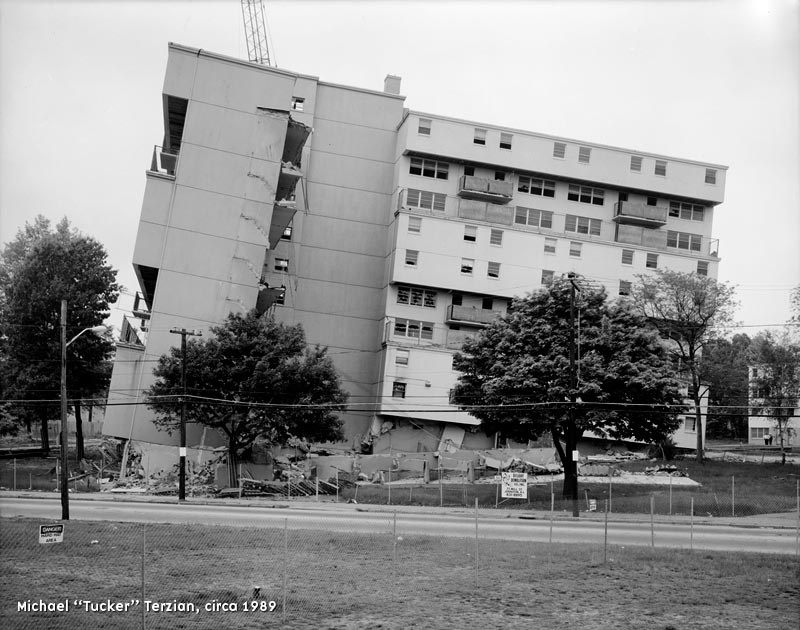
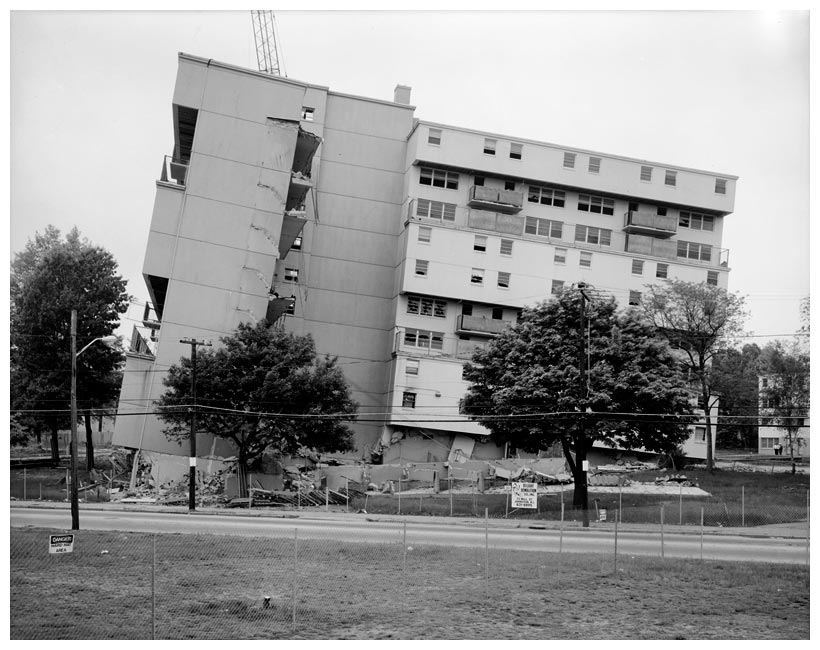
Property updates, new photos
Some are just to satisfy the requirement for thumbnails that are larger than 800px wide

diff --git a/_property/american-screw-co.md b/_property/american-screw-co.md
@@ -2,7 +2,7 @@
 title: "American Screw Company"
 slug: american-screw-co
 aka: 'Eagle Mill, Eagle Screw Company, Bay State Mill'
-date-modified: 2020-08-04 12:00
+date-modified: 2020-09-11 16:00
 
 built: '1840–1873'
 demolition: '1971'
@@ -32,6 +32,12 @@ thumbnail: amerscrew-habs-1970-01.jpg
 images:
   - url: amerscrew-litho-1886.jpg
     caption: 'Lithograph reproduction of American Screw Complex, including Eagle Mill, circa 1886'
+  - url: Letterhead-from-Ebay-1883.png
+    caption: 'Company letterhead from 1883'
+  - url: John-Gannon-via-Facebook.jpg
+    caption: 'Cover of a large box of assorted screws from John Gannon'
+  - url: 'amerscrew-ppl-1965c-01.jpg'
+    caption: 'Newspaper clipping from the John Hutchins Cady Research Scrapbooks Collection at Providence Public Library, circa 1965. Notice the “American Screw Company” sign, which is why we date the photo pre-1970 — signage is not present in the Library of Congress photos'
   - url: amerscrew-habs-1970-01.jpg
     caption: 'Complex looking east, Bay State building on left. Building 1 in middle, roof line and tower of building 2 visible to right, building 2 boiler house on extreme right. “Canal House” commercial/residential building (not part of American Screw complex) in foreground at 125-127 Charles Street alongside “Hope Cycle and Auto Supply” at 137 Charles Street.'
   - url: amerscrew-habs-1970-02.jpg
@@ -39,7 +45,7 @@ images:
   - url: amerscrew-habs-1970-03.jpg
     caption: 'Bay State Mill, built 1873, Stevens Street.'
   - url: amerscrew-habs-1970-04.jpg
-    caption: 'Building 6, 1850, on left (21 Stevens), with Building 1, 1840, (Admiral Radios/Televisions/Refrigerators) on right at the corner of Hewes and Stevens Streets.'
+    caption: 'Building 6, 1850, on left (21 Stevens), with Building 1, 1840, (Admiral Radios/Televisions/Refrigerators) on right at the corner of Hewes and Stevens Streets. Notice that bell tower top is gone from Building 1 as compared to the photo circa 1965'
   - url: amerscrew-habs-1970-05.jpg
     caption: 'South east corners of building 1 (foreground) and Bay State building (background).'
   - url: amerscrew-habs-1970-06.jpg
@@ -64,18 +70,14 @@ images:
     caption: 'East end of southern addition to Building 1, 3rd floor.'
   - url: amerscrew-habs-1970-16.jpg
     caption: 'Framing below skylights in building 6.'
-  - url: Letterhead-from-Ebay-1883.png
-    caption: 'Company letterhead from 1883'
-  - url: John-Gannon-via-Facebook.jpg
-    caption: 'Cover of a large box of assorted screws from John Gannon'
+  - url: amerscrew-rendering-1972.jpg
+    caption: 'Architectural renovation rendering by Karen Noel. View is to the south at the intersection of Stevens and Charles streets.'
   - url: amerscrew-aerial-1899-1997.jpg
     caption: 'Providence Historic Aerial Viewer 1997 with a 1899 Sanborn Map overlay'
   - url: amerscrew-aerial-1937-1997.jpg
     caption: 'Providence Historic Aerial Viewer 1997 with a 1937 Sanborn Map overlay'
   - url: amerscrew-aerial-1970-1997.jpg
     caption: 'Providence Historic Aerial Viewer 1997 with a 1970 schematic of the complex from the National Register nomination'
-  - url: amerscrew-rendering-1972.jpg
-    caption: 'Architectural renovation rendering by Karen Noel. View is to the south at the intersection of Stevens and Charles streets.'
 
 imagescredit: 'All images from the National Register nomination forms, photos by Laurence Tilley. Architectural drawing by Karen Noel.'
 ---

diff --git a/_property/central-fire-stations.md b/_property/central-fire-stations.md
@@ -2,7 +2,7 @@
 title: "Central Fire Stations, Providence"
 slug: central-fire-stations
 aka: 
-date-modified: 2020-08-30 12:00
+date-modified: 2020-09-11 15:15
 
 built: '1873 and 1903'
 demolition: '1938'
@@ -38,6 +38,8 @@ images:
   - url: central-fire-1902c-profile.jpg
   - url: central-fire-1903c-views-of-prov.jpg
     caption: 'Detail from a page out of “Views of Providence,” circa 1903'
+  - url: central-fire-1906c-postcard.jpg
+    caption: 'Rare photo from a postcard without the Federal Court in place (built 1906-1908)'
   - url: central-fire-1908c-with-union.jpg
   - url: central-fire-1910c-and-court-house.jpg
     caption: 'John Hutchins Cady Research Scrapbooks Collection, Providence Public Library, circa 1910'
@@ -45,6 +47,8 @@ images:
     caption: 'John Hutchins Cady Research Scrapbooks Collection, Providence Public Library, circa 1910'
   - url: central-fire-1910c-lib-congress.jpg
     caption: 'Detail from a photo of Exchange Place, Library of Congress, circa 1910'
+  - url: central-fire-1918c-hospital-trust.jpg
+    caption: 'Postcard view circa 1918 with the Hospital Trust new tower in the background (pale yellow)'
   - url: central-fire-1924c-demonstration.jpg
     caption: 'Providence Journal file photo, circa 1924'
 

diff --git a/_property/narragansett-brewery-cranston.md b/_property/narragansett-brewery-cranston.md
@@ -8,7 +8,7 @@ built: 1890
 demolition: 1998
 decade: '1890-1899'
 date-added: 2002
-categories: [ '#UsedToBeThere' ]
+categories: [ '#ArchiveRI', '#UsedToBeThere' ]
 neighborhoods: []
 town: [ 'Cranston, RI' ]
 designers: [ 'Designer Unknown' ]
@@ -23,10 +23,11 @@ gmap: "https://www.google.com/maps/place/5+Garfield+Ave,+Cranston,+RI+02920/@41.
 meta: ""
 excerpt: "Abandoned and derelict for 17 years, the former brewery complex that once employed 850 people was razed in 1998. The brand has lived on and has since reclaimed its Rhode Island heritage."
 
-thumbnail: narrbrew-cranston-tod-1999-01.jpg
+thumbnail: narrbrew-cranston-thumb.jpg
 
 images:
   - url: narrbrew-cranston-old-1920s.jpg
+  - url: narrbrew-cranston-pin-1910c.jpg
   - url: narrbrew-cranston-aerial-1997.jpg
     caption: Aerial from the Providence Historical Aerial Viewer
   - url: narrbrew-cranston-b-1999-01.jpg

diff --git a/_property/crescent-park.md b/_property/crescent-park.md
@@ -2,7 +2,7 @@
 title: "Crescent Park"
 slug: 'crescent-park'
 aka: 
-date-modified: 2020-08-16 11:00
+date-modified: 2020-09-11 14:52
 
 built: '1886'
 demolition: '1979'
@@ -40,6 +40,8 @@ images:
     caption: 'Crescent Park Studio on the left with Toboggan Races advertised on the right, circa 1900.'
   - url: crescent-park-looff-family-1905.jpg
     caption: 'The Looff family pose in front of the Crescent Park carousel, 1905.'
+  - url: crescent-park-boy-in-boat-c1910.jpg
+    caption: 'A boy poses in the Crescent Park boat painting, 1910.'
   - url: crescent-park-chutes-c1910.jpg
     caption: 'A postcard photograph of the “Shooting the Chutes” ride, only 5¢ roundtrip, circa 1910. '
   - url: crescent-park-bandstand-c1910.jpg

diff --git a/_property/zams.md b/_property/zams.md
@@ -8,7 +8,7 @@ built: 1940?
 demolition: 1985
 decade: '1940-1949'
 date-added: 2003
-categories: [ '#UsedToBeThere' ]
+categories: [ '#ArchiveRI', '#UsedToBeThere' ]
 neighborhoods: [ 'South Providence' ]
 town: [ 'Providence, RI' ]
 designers: [ 'Designer Unknown' ]
@@ -26,7 +26,7 @@ gmap: "https://www.google.com/maps/place/734+Eddy+St,+Providence,+RI+02903/@41.8
 meta: ""
 excerpt: "A sweet and spare little gas and service station formerly on Eddy Street. Love the painted transom sign."
 
-thumbnail: 
+thumbnail: zams-g-thumb.jpg
 
 images:
   - url: zams-g-1985-01.jpg

diff --git a/_property/blue-coal.md b/_property/blue-coal.md
@@ -24,7 +24,7 @@ meta: "Built circa 1915. Photographs starting May 2002. Demolished Sept 2002. Fo
 
 excerpt: "Built circa 1915, these concrete coal storage towers were demolished in late 2002 by oversight — a permit was granted despite their protection by inclusion in the National Register of Historic Places. "
 
-thumbnail: blue-coal-sclover-01.jpg
+thumbnail: blue-coal-mkierstead-01.jpg
 
 images:
   - url: blue-coal-egould-01.jpg

diff --git a/_property/silver-springs-bleaching.md b/_property/silver-springs-bleaching.md
@@ -23,7 +23,7 @@ gmap: "https://www.google.com/maps/place/387+Charles+St,+Providence,+RI+02904/@4
 meta: ""
 excerpt: "An early demolition of a large mill complex that flew under the radar in the early 2000s. Replaced by a Home Depot shopping center."
 
-thumbnail: 
+thumbnail: silver-spring-thumb.jpg
 
 images:
   - url: 01.jpg
